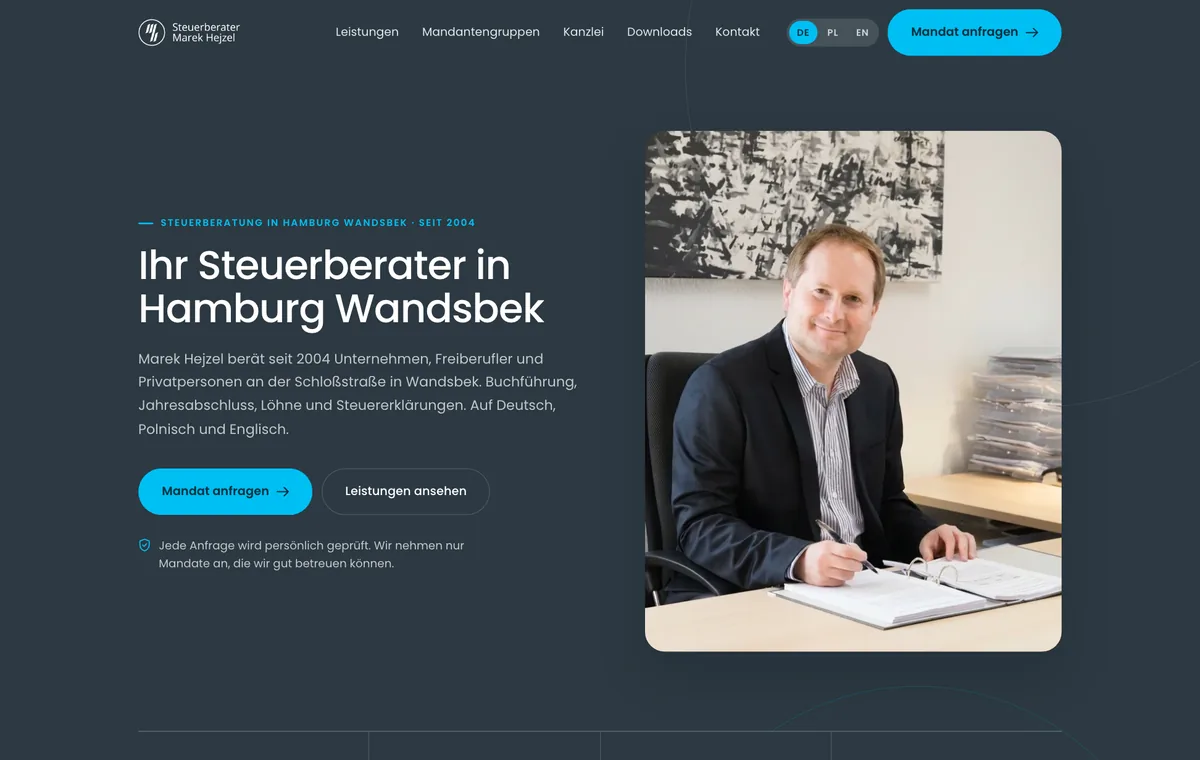
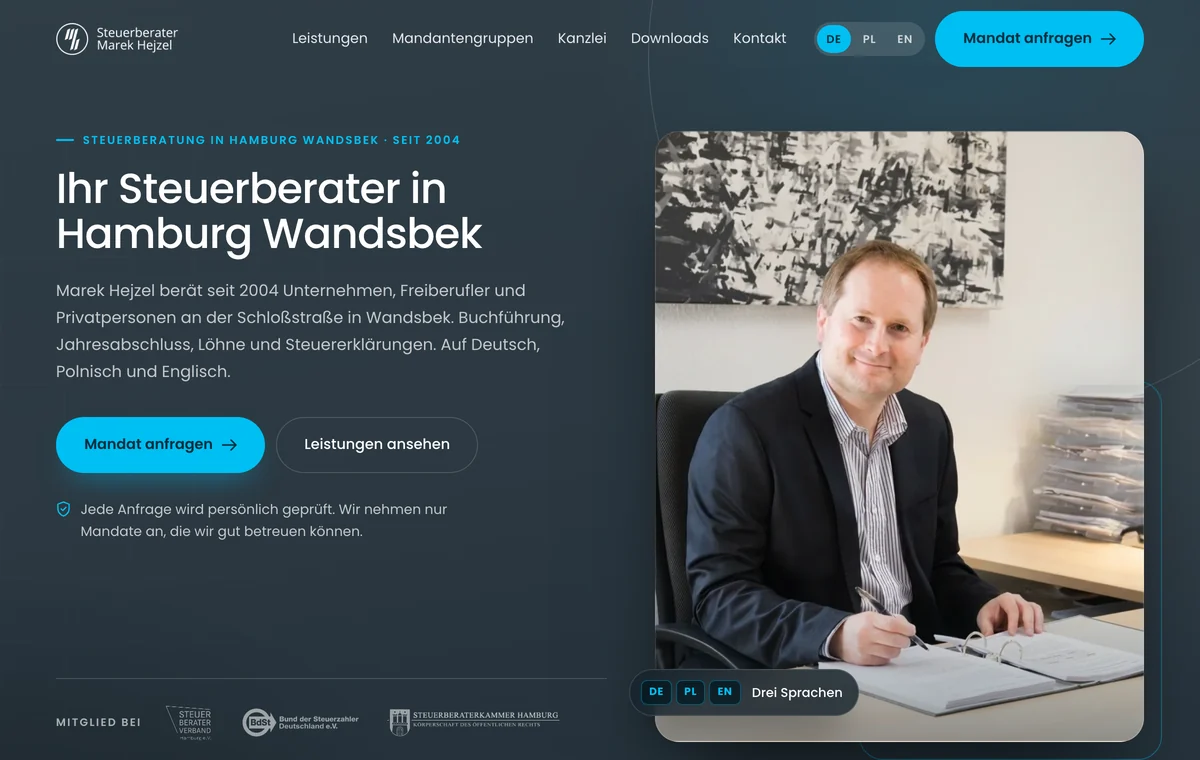
Strengthen hejzel hero: lit background, framed portrait, trust row
Die Textspalte stand mittig neben einem hoeheren Bild, das ergab 94 Pixel
tote Flaeche ueber und unter dem Text. Der Bildschatten lag bei 12 Prozent
Schwarz und war auf dem Navy rechnerisch unsichtbar. Die Zahlenzeile stand
komplett unter der Falz.

- beide Spalten auf volle Hoehe, Augenbraue buendig mit der Bildoberkante,
  Mitgliederzeile buendig mit der Bildunterkante
- Grund aus vier Verlaeufen statt Volltonfarbe, dazu ein ausgeblendetes Raster
- Bild mit Haarlinie, versetztem Cyan-Rahmen und tragfaehigem Schatten
- Sprachplakette DE/PL/EN ueberlappt die Bildkante
- die drei Mitgliedschaften stehen jetzt ueber der Falz
- Trennlinien der Zahlenzeile als echte Rahmen, die 1px-Luecke mit Fuellfarbe
  waere im Verlauf sichtbar geworden
- Kontrast: Label von 3,99 auf 5,8, Sprachchips von 4,31 auf 7,7

Hoehe 1030 auf 985 Pixel, CLS 0,018 auf 0,0006. Alle drei Sprachen aus
vorhandenen Textschluesseln, keine neuen Inhalte. Die 49 uebrigen Seiten
sind unveraendert.

diff --git a/public/redesign/hejzel/assets/site.css b/public/redesign/hejzel/assets/site.css
@@ -267,38 +267,136 @@ p:last-child{ margin-bottom:0; }
 
 /* -------------------------------------------------------------------- hero */
 
-.hero{ background:var(--ink); color:#fff; position:relative; overflow:hidden; padding-top:78px; }
+/* Der dunkle Grund traegt eine Lichtrichtung: warmes Licht oben rechts hinter dem
+   Bild, ein kuehler Rest unten links. Ohne das bleibt die Flaeche totes Grau. */
+.hero{
+  color:#fff; position:relative; overflow:hidden; padding-top:78px;
+  background:
+    radial-gradient(620px 500px at 79% 2%,   rgba(0,191,243,.10),  transparent 58%),
+    radial-gradient(820px 660px at 102% 42%, rgba(255,255,255,.05), transparent 62%),
+    radial-gradient(760px 620px at 0% 104%,  rgba(0,0,0,.34),       transparent 68%),
+    linear-gradient(172deg, #303D47 0%, #2C3942 44%, #202D36 100%);
+}
+/* feines Raster hinter der Textspalte, nach rechts ausgeblendet */
+.hero-glow{
+  position:absolute; inset:0; pointer-events:none; z-index:0;
+  background-image:
+    linear-gradient(rgba(255,255,255,.05) 1px, transparent 1px),
+    linear-gradient(90deg, rgba(255,255,255,.05) 1px, transparent 1px);
+  background-size:64px 64px;
+  -webkit-mask-image:radial-gradient(66% 78% at 4% 42%, #000 0%, transparent 70%);
+          mask-image:radial-gradient(66% 78% at 4% 42%, #000 0%, transparent 70%);
+  opacity:.42;
+}
 .hero::before{
   content:""; position:absolute; right:-14%; top:-32%;
   width:60vw; height:60vw; max-width:820px; max-height:820px;
-  border:1px solid rgba(255,255,255,.09); border-radius:50%;
+  border:1px solid rgba(255,255,255,.13); border-radius:50%;
   pointer-events:none;
 }
 .hero::after{
   content:""; position:absolute; right:2%; bottom:-40%;
   width:44vw; height:44vw; max-width:620px; max-height:620px;
-  border:1px solid rgba(0,191,243,.16); border-radius:50%;
+  border:1px solid rgba(0,191,243,.30); border-radius:50%;
   pointer-events:none;
 }
 .hero .wrap{ position:relative; z-index:1; }
 .hero-grid{ display:grid; gap:clamp(2rem,4vw,3.5rem); align-items:center;
-            padding-block:clamp(2.75rem,5.5vw,5rem); }
-@media (min-width:980px){ .hero-grid{ grid-template-columns:minmax(0,1.05fr) minmax(0,.95fr); } }
+            padding-block:clamp(2.5rem,4.4vw,3.75rem); }
+/* Ab zwei Spalten laeuft die Textspalte auf volle Hoehe und die Mitgliedszeile
+   sitzt unten, auf einer Linie mit der Unterkante des Bildes. Sonst steht der
+   Text als kurzer Block in einer viel zu grossen dunklen Flaeche. */
+@media (min-width:980px){
+  .hero-grid{ grid-template-columns:minmax(0,1.06fr) minmax(0,.94fr); align-items:stretch; }
+  .hero-copy{ display:flex; flex-direction:column; }
+  .hero-copy .hero-trust{ margin-top:auto; }
+}
 .hero h1{ color:#fff; margin-bottom:1.25rem; }
 .hero .lede{ color:var(--on-ink-soft); margin-bottom:2rem; max-width:52ch; }
-.hero-media{ position:relative; border-radius:var(--r-lg); overflow:hidden; box-shadow:var(--sh-lg); }
-.hero-media img{ width:100%; height:100%; object-fit:cover; display:block; }
+.hero .btn-cyan{ box-shadow:0 14px 32px -14px rgba(0,191,243,.55); }
+.hero .btn-cyan:hover{ box-shadow:0 18px 38px -14px rgba(0,191,243,.7); }
 .hero-note{ display:flex; align-items:flex-start; gap:.6rem; margin-top:1.6rem;
             font-size:.85rem; color:var(--on-ink-soft); max-width:46ch; }
 .hero-note svg{ flex:none; margin-top:.15rem; color:var(--cyan); }
 
+.hero-trust{ display:flex; align-items:center; gap:1.4rem; flex-wrap:wrap;
+             margin-top:1.9rem; padding-top:1.5rem; border-top:1px solid var(--line-ink); }
+/* --text-faint kaeme auf dunklem Grund nur auf 4,0:1, zu wenig fuer 11px. */
+.hero-trust-label{ font-size:.68rem; font-weight:600; letter-spacing:.14em;
+                   text-transform:uppercase; color:rgba(255,255,255,.62); }
+.hero-trust-logos{ display:flex; align-items:center; gap:1.75rem; }
+.hero-trust-logos img{ height:29px; width:auto; opacity:.78;
+                       transition:opacity .25s var(--ease); }
+.hero-trust-logos img.sbv{ height:39px; }
+.hero-trust:hover .hero-trust-logos img{ opacity:1; }
+/* Die Kammermarke ist 420 zu 70 breit und laeuft sonst aus der Spalte. */
+@media (max-width:760px){
+  .hero-trust{ gap:.85rem; margin-top:1.6rem; padding-top:1.3rem; }
+  .hero-trust-logos{ gap:1.15rem; }
+  .hero-trust-logos img{ height:21px; }
+  .hero-trust-logos img.sbv{ height:29px; }
+}
+
+/* Das Bild ist ein gebautes Objekt: Rahmenlinie dahinter, Haarlinie darauf,
+   ein Schatten der auf dunklem Grund ueberhaupt sichtbar ist. */
+.hero-media{ position:relative; }
+.hero-rule{
+  position:absolute; inset:auto -18px -18px auto; width:62%; height:62%;
+  border:1px solid rgba(0,191,243,.42); border-radius:var(--r-lg);
+  pointer-events:none;
+}
+.hero-shot{
+  position:relative; margin:0; border-radius:var(--r-lg); overflow:hidden;
+  box-shadow:0 42px 90px -28px rgba(0,0,0,.72), 0 2px 0 rgba(255,255,255,.06) inset;
+  isolation:isolate;
+}
+.hero-shot::after{
+  content:""; position:absolute; inset:0; border-radius:inherit;
+  border:1px solid rgba(255,255,255,.14);
+  background:linear-gradient(to top, rgba(16,30,39,.42) 0%, transparent 26%);
+  pointer-events:none;
+}
+.hero-shot img{ width:100%; height:100%; object-fit:cover; display:block; }
+.hero-badge{
+  position:absolute; left:-26px; bottom:26px; z-index:2; margin:0;
+  display:flex; align-items:center; gap:.7rem;
+  padding:.62rem .95rem .62rem .68rem; border-radius:var(--pill);
+  background:rgba(23,35,44,.82); border:1px solid rgba(255,255,255,.14);
+  box-shadow:0 18px 40px -16px rgba(0,0,0,.8);
+  -webkit-backdrop-filter:blur(14px) saturate(140%);
+          backdrop-filter:blur(14px) saturate(140%);
+}
+.hero-badge-langs{ display:flex; gap:4px; }
+/* Dunkler Chip statt cyan getoentem: das Hausblau bleibt so unveraendert und
+   kommt trotzdem auf 7,7:1 statt auf 4,3:1. */
+.hero-badge-langs b{
+  font-size:.66rem; font-weight:700; letter-spacing:.06em; line-height:1;
+  padding:.4rem .45rem; border-radius:6px;
+  background:rgba(3,22,30,.72); border:1px solid rgba(0,191,243,.34);
+  color:var(--cyan);
+}
+.hero-badge-txt{ font-size:.8rem; font-weight:500; color:#fff; white-space:nowrap; }
+/* Einspaltig sitzt die Plakette im Bild, nicht im Seitenrand daneben. */
+@media (max-width:979px){ .hero-badge{ left:16px; bottom:16px; } }
+@media (max-width:400px){ .hero-badge{ left:12px; bottom:12px; padding-right:.8rem; } }
+
+/* Trennlinien als echte Rahmen, nicht als 1px-Luecke mit Fuellfarbe: der Hero
+   traegt jetzt einen Verlauf, eine deckende Kachelfarbe wuerde darin auffallen. */
 .facts{
-  display:grid; gap:1px; background:var(--line-ink);
+  display:grid; gap:0;
   border-top:1px solid var(--line-ink);
   grid-template-columns:repeat(2,minmax(0,1fr));
 }
 @media (min-width:880px){ .facts{ grid-template-columns:repeat(4,minmax(0,1fr)); } }
-.fact{ background:var(--ink); padding:clamp(1.3rem,2.2vw,1.9rem) clamp(1rem,1.8vw,1.6rem); }
+.fact{ position:relative;
+       padding:clamp(1.3rem,2.2vw,1.9rem) clamp(1.1rem,1.8vw,1.6rem); }
+.fact + .fact{ border-left:1px solid var(--line-ink); }
+@media (max-width:879px){
+  .fact:nth-child(2n+1){ border-left:0; }
+  .fact:nth-child(n+3){ border-top:1px solid var(--line-ink); }
+}
+.fact::before{ content:""; position:absolute; left:-1px; top:-1px;
+               width:30px; height:2px; background:var(--cyan); opacity:.75; }
 .fact dt{ font-size:clamp(1.35rem,2vw,1.7rem); font-weight:600; color:#fff; line-height:1.15;
           margin-bottom:.35rem; letter-spacing:-.015em; }
 .fact dd{ margin:0; font-size:.8rem; color:var(--on-ink-soft); line-height:1.5; }

diff --git a/public/redesign/hejzel/pl/index.html b/public/redesign/hejzel/pl/index.html
@@ -52,6 +52,7 @@
 <main id="main">
 
 <section class="hero">
+  <div class="hero-glow" aria-hidden="true"></div>
   <div class="wrap">
     <div class="hero-grid">
       <div class="hero-copy">
@@ -63,9 +64,20 @@
           <a class="btn btn-ghost-ink" href="/redesign/hejzel/pl/uslugi.html">Zobacz usługi</a>
         </div>
         <p class="hero-note"><svg width="15" height="16" viewBox="0 0 15 16" fill="none" aria-hidden="true"><path d="M7.5 1l5.6 2.2v4.3c0 3.6-2.4 6.4-5.6 7.5C4.3 13.9 1.9 11.1 1.9 7.5V3.2L7.5 1z" stroke="currentColor" stroke-width="1.3" stroke-linejoin="round"/><path d="M5.2 7.9l1.7 1.7 3-3.3" stroke="currentColor" stroke-width="1.3" stroke-linecap="round" stroke-linejoin="round"/></svg><span>Każde zapytanie sprawdzamy osobiście. Przyjmujemy tylko te zlecenia, które możemy dobrze poprowadzić.</span></p>
+        <div class="hero-trust">
+          <span class="hero-trust-label">Stowarzyszony z</span>
+          <span class="hero-trust-logos"><img src="/redesign/hejzel/assets/img/partner-sbv-white.png" alt="Steuerberaterverband Hamburg e.V." class="sbv" decoding="async" width="195" height="152"><img src="/redesign/hejzel/assets/img/partner-bdst-white.png" alt="Bund der Steuerzahler Deutschland e.V." class="" decoding="async" width="420" height="104"><img src="/redesign/hejzel/assets/img/partner-stbk-white.png" alt="Steuerberaterkammer Hamburg" class="" decoding="async" width="420" height="70"></span>
+        </div>
       </div>
       <div class="hero-media">
-        <img src="/redesign/hejzel/assets/img/marek-portrait.webp" alt="Marek Hejzel, Steuerberater in Hamburg Wandsbek, an seinem Schreibtisch" fetchpriority="high" decoding="async" width="678" height="848">
+        <span class="hero-rule" aria-hidden="true"></span>
+        <figure class="hero-shot">
+          <img src="/redesign/hejzel/assets/img/marek-portrait.webp" alt="Marek Hejzel, Steuerberater in Hamburg Wandsbek, an seinem Schreibtisch" fetchpriority="high" decoding="async" width="678" height="848">
+        </figure>
+        <p class="hero-badge">
+          <span class="hero-badge-langs"><b>DE</b><b>PL</b><b>EN</b></span>
+          <span class="hero-badge-txt">Trzy języki</span>
+        </p>
       </div>
     </div>
   </div>

diff --git a/public/redesign/hejzel/index.html b/public/redesign/hejzel/index.html
@@ -52,6 +52,7 @@
 <main id="main">
 
 <section class="hero">
+  <div class="hero-glow" aria-hidden="true"></div>
   <div class="wrap">
     <div class="hero-grid">
       <div class="hero-copy">
@@ -63,9 +64,20 @@
           <a class="btn btn-ghost-ink" href="/redesign/hejzel/leistungen.html">Leistungen ansehen</a>
         </div>
         <p class="hero-note"><svg width="15" height="16" viewBox="0 0 15 16" fill="none" aria-hidden="true"><path d="M7.5 1l5.6 2.2v4.3c0 3.6-2.4 6.4-5.6 7.5C4.3 13.9 1.9 11.1 1.9 7.5V3.2L7.5 1z" stroke="currentColor" stroke-width="1.3" stroke-linejoin="round"/><path d="M5.2 7.9l1.7 1.7 3-3.3" stroke="currentColor" stroke-width="1.3" stroke-linecap="round" stroke-linejoin="round"/></svg><span>Jede Anfrage wird persönlich geprüft. Wir nehmen nur Mandate an, die wir gut betreuen können.</span></p>
+        <div class="hero-trust">
+          <span class="hero-trust-label">Mitglied bei</span>
+          <span class="hero-trust-logos"><img src="/redesign/hejzel/assets/img/partner-sbv-white.png" alt="Steuerberaterverband Hamburg e.V." class="sbv" decoding="async" width="195" height="152"><img src="/redesign/hejzel/assets/img/partner-bdst-white.png" alt="Bund der Steuerzahler Deutschland e.V." class="" decoding="async" width="420" height="104"><img src="/redesign/hejzel/assets/img/partner-stbk-white.png" alt="Steuerberaterkammer Hamburg" class="" decoding="async" width="420" height="70"></span>
+        </div>
       </div>
       <div class="hero-media">
-        <img src="/redesign/hejzel/assets/img/marek-portrait.webp" alt="Marek Hejzel, Steuerberater in Hamburg Wandsbek, an seinem Schreibtisch" fetchpriority="high" decoding="async" width="678" height="848">
+        <span class="hero-rule" aria-hidden="true"></span>
+        <figure class="hero-shot">
+          <img src="/redesign/hejzel/assets/img/marek-portrait.webp" alt="Marek Hejzel, Steuerberater in Hamburg Wandsbek, an seinem Schreibtisch" fetchpriority="high" decoding="async" width="678" height="848">
+        </figure>
+        <p class="hero-badge">
+          <span class="hero-badge-langs"><b>DE</b><b>PL</b><b>EN</b></span>
+          <span class="hero-badge-txt">Drei Sprachen</span>
+        </p>
       </div>
     </div>
   </div>

diff --git a/public/redesign/hejzel/en/index.html b/public/redesign/hejzel/en/index.html
@@ -52,6 +52,7 @@
 <main id="main">
 
 <section class="hero">
+  <div class="hero-glow" aria-hidden="true"></div>
   <div class="wrap">
     <div class="hero-grid">
       <div class="hero-copy">
@@ -63,9 +64,20 @@
           <a class="btn btn-ghost-ink" href="/redesign/hejzel/en/services.html">See our services</a>
         </div>
         <p class="hero-note"><svg width="15" height="16" viewBox="0 0 15 16" fill="none" aria-hidden="true"><path d="M7.5 1l5.6 2.2v4.3c0 3.6-2.4 6.4-5.6 7.5C4.3 13.9 1.9 11.1 1.9 7.5V3.2L7.5 1z" stroke="currentColor" stroke-width="1.3" stroke-linejoin="round"/><path d="M5.2 7.9l1.7 1.7 3-3.3" stroke="currentColor" stroke-width="1.3" stroke-linecap="round" stroke-linejoin="round"/></svg><span>Every enquiry is reviewed personally. We only take on work we can look after properly.</span></p>
+        <div class="hero-trust">
+          <span class="hero-trust-label">Member of</span>
+          <span class="hero-trust-logos"><img src="/redesign/hejzel/assets/img/partner-sbv-white.png" alt="Steuerberaterverband Hamburg e.V." class="sbv" decoding="async" width="195" height="152"><img src="/redesign/hejzel/assets/img/partner-bdst-white.png" alt="Bund der Steuerzahler Deutschland e.V." class="" decoding="async" width="420" height="104"><img src="/redesign/hejzel/assets/img/partner-stbk-white.png" alt="Steuerberaterkammer Hamburg" class="" decoding="async" width="420" height="70"></span>
+        </div>
       </div>
       <div class="hero-media">
-        <img src="/redesign/hejzel/assets/img/marek-portrait.webp" alt="Marek Hejzel, Steuerberater in Hamburg Wandsbek, an seinem Schreibtisch" fetchpriority="high" decoding="async" width="678" height="848">
+        <span class="hero-rule" aria-hidden="true"></span>
+        <figure class="hero-shot">
+          <img src="/redesign/hejzel/assets/img/marek-portrait.webp" alt="Marek Hejzel, Steuerberater in Hamburg Wandsbek, an seinem Schreibtisch" fetchpriority="high" decoding="async" width="678" height="848">
+        </figure>
+        <p class="hero-badge">
+          <span class="hero-badge-langs"><b>DE</b><b>PL</b><b>EN</b></span>
+          <span class="hero-badge-txt">Three languages</span>
+        </p>
       </div>
     </div>
   </div>
